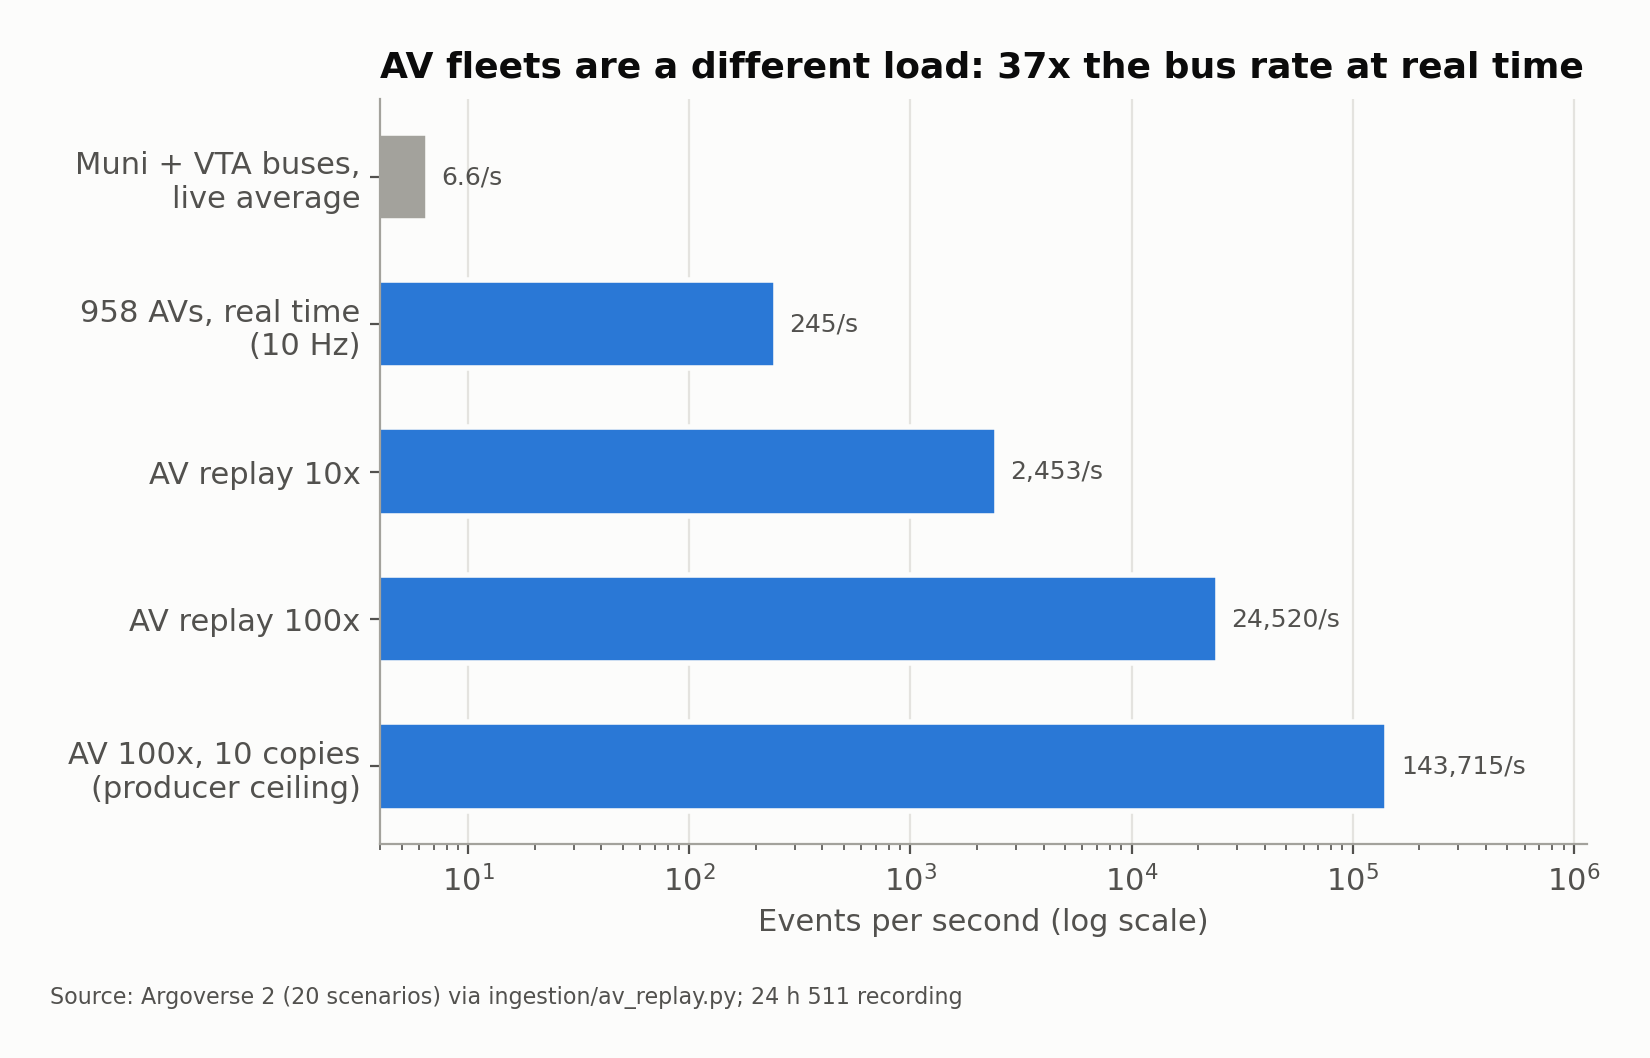
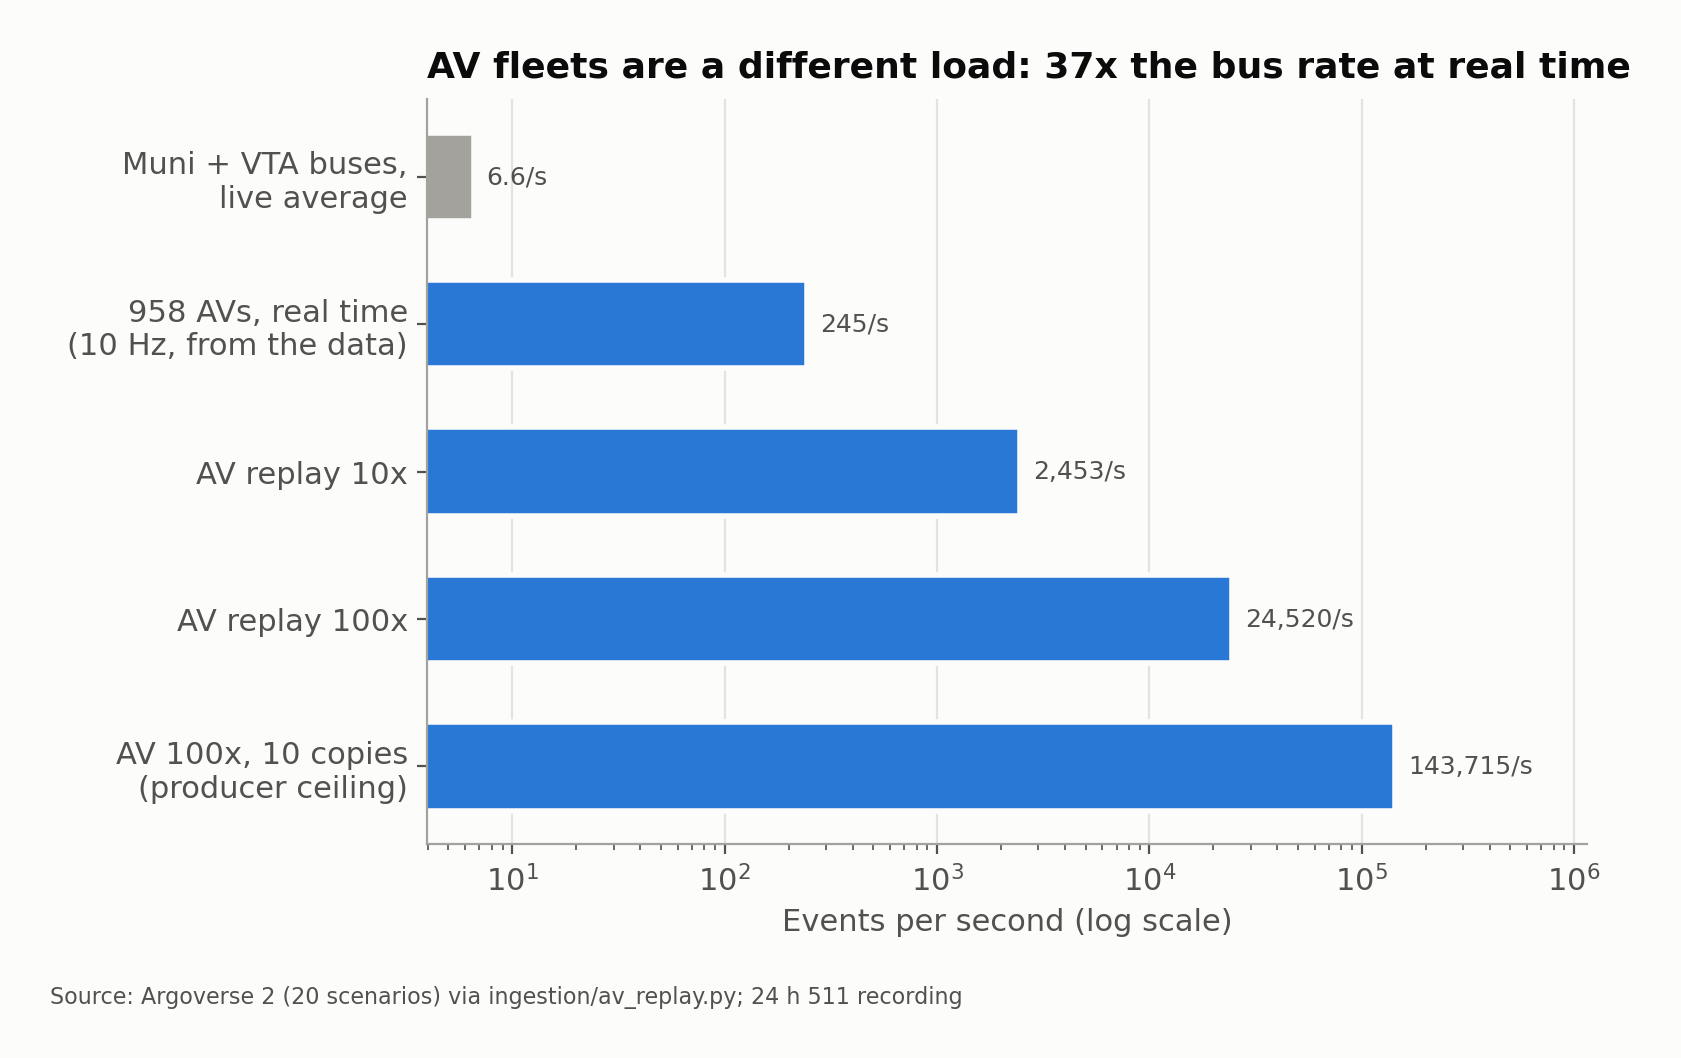
B28: review fixes (1M Bloom probes, measured exact-set memory, zoomed recall as points, 20 FM seeds, AV count from data, small fixes)

diff --git a/benchmarks/make_figures.py b/benchmarks/make_figures.py
@@ -10,7 +10,7 @@ Every other figure only reads saved results. A figure whose input is missing is
 skipped with a note, so this can be rerun as more results land.
 
 Run from the repo root:
-    python benchmarks/make_figures.py                 # everything (sweeps take ~2 min)
+    python benchmarks/make_figures.py                 # everything (sweeps take ~3-5 min)
     python benchmarks/make_figures.py --skip-sweeps   # only the saved results
 Writes report/figures/*.png and benchmarks/results/b28_sweeps.json (sweep numbers).
 """
@@ -31,6 +31,8 @@ sys.path.insert(0, os.path.dirname(os.path.dirname(os.path.abspath(__file__))))
 from algorithms.stream_algos import BloomFilter, FlajoletMartin  # noqa: E402
 
 RES = "benchmarks/results"
+COLD_JVM_RUN = "20261114_200826_r40000_t1_0"
+AV_PARQUET = "data/av2/av2_20_scenarios.parquet"
 OUT = "report/figures"
 
 # Validated reference palette (light mode); categorical slots in fixed order.
@@ -69,6 +71,11 @@ def save(fig, name, source):
     made.append(path)
 
 
+def load_json(path):
+    with open(path) as f:
+        return json.load(f)
+
+
 def latest(pattern):
     files = sorted(glob.glob(os.path.join(RES, pattern)))
     return files[-1] if files else None
@@ -96,7 +103,13 @@ def load_replay(folder, limit=None):
     return ids, vehicles
 
 
-def bloom_sweep(ids, probes=50_000):
+def exact_set_bytes(items):
+    """Measured memory of an exact Python set of the IDs: the set itself plus every string in it."""
+    st = set(items)
+    return sys.getsizeof(st) + sum(sys.getsizeof(x) for x in st)
+
+
+def bloom_sweep(ids, probes=1_000_000):
     distinct = list(dict.fromkeys(ids))
     n = len(distinct)
     fake = [f"probe:{i}:not-an-event" for i in range(probes)]
@@ -105,14 +118,19 @@ def bloom_sweep(ids, probes=50_000):
         bf = BloomFilter(n, p)
         for x in distinct:
             bf.add(x)
-        fp = sum(x in bf for x in fake) / probes
+        hits = sum(x in bf for x in fake)
+        fp = hits / probes
         rows.append({"target_fp": p, "memory_bytes": bf.memory_bytes(), "hashes_k": bf.k,
-                     "bits_per_item": round(bf.m / n, 2), "measured_fp": fp})
-        print(f"  Bloom target {p:.2%}: measured {fp:.3%}, {bf.memory_bytes() / 1e6:.2f} MB")
-    return {"distinct_ids": n, "exact_set_bytes_est": n * 120, "rows": rows}
+                     "bits_per_item": round(bf.m / n, 2), "measured_fp": fp,
+                     "false_positive_hits": hits, "expected_hits": round(p * probes)})
+        print(f"  Bloom target {p:.2%}: measured {fp:.4%} ({hits:,} of {probes:,} probes), "
+              f"{bf.memory_bytes() / 1e6:.2f} MB")
+    exact = exact_set_bytes(distinct)
+    print(f"  Exact Python set of the same IDs (measured): {exact / 1e6:.1f} MB")
+    return {"distinct_ids": n, "probes": probes, "exact_set_bytes_measured": exact, "rows": rows}
 
 
-def fm_sweep(vehicles, seeds=5):
+def fm_sweep(vehicles, seeds=20):
     rows = []
     for nh in (8, 16, 32, 64, 128):
         for src, vs in sorted(vehicles.items()):
@@ -123,7 +141,7 @@ def fm_sweep(vehicles, seeds=5):
                 for v in vs:
                     fm.add(v)
                 errs.append(abs(fm.estimate() - len(vs)) / len(vs) * 100)
-            rows.append({"source": src, "num_hashes": nh, "memory_bytes": nh * 8, "true": len(vs),
+            rows.append({"source": src, "num_hashes": nh, "memory_bytes": nh * 8, "true": len(vs), "seeds": seeds,
                          "mean_error_pct": round(sum(errs) / len(errs), 2),
                          "max_error_pct": round(max(errs), 2)})
             print(f"  FM {src} {nh:>3} hashes ({nh * 8} B): mean error {rows[-1]['mean_error_pct']}%")
@@ -134,17 +152,26 @@ def fig_bloom(sw):
     df = pd.DataFrame(sw["rows"])
     fig, ax = plt.subplots(figsize=(8, 4.8))
     ax.plot(df.memory_bytes / 1e6, df.measured_fp * 100, "-o", color=BLUE, label="measured")
+    if "false_positive_hits" in df:                      # too few hits to trust the rate: hollow marker
+        few = df[df.false_positive_hits < 20]
+        if len(few):
+            ax.scatter(few.memory_bytes / 1e6, few.measured_fp * 100, facecolor=SURFACE, edgecolor=BLUE,
+                       linewidth=2, s=60, zorder=4, label="fewer than 20 false-positive hits")
     ax.plot(df.memory_bytes / 1e6, df.target_fp * 100, "--", color=MUTED, linewidth=1.5, label="target")
     ax.set_xscale("log"); ax.set_yscale("log")
     for _, r in df.iterrows():
         ax.annotate(f"{r.bits_per_item:.0f} bits/ID", (r.memory_bytes / 1e6, r.measured_fp * 100),
                     textcoords="offset points", xytext=(6, 4), fontsize=8, color=INK2)
-    exact = sw["exact_set_bytes_est"] / 1e6
+    if "exact_set_bytes_measured" in sw:
+        exact, how = sw["exact_set_bytes_measured"] / 1e6, "measured"
+    else:                                                # older sweep file: 120 bytes per ID guess
+        exact, how = sw["exact_set_bytes_est"] / 1e6, "estimated"
     ax.axvline(exact, color=ORANGE, linewidth=1.5)
-    ax.text(exact, ax.get_ylim()[1], f" exact set ≈ {exact:.0f} MB\n (0% false positives)", va="top",
-            fontsize=9, color=INK2)
+    ax.text(exact, ax.get_ylim()[1], f" exact Python set\n {exact:.0f} MB ({how})\n 0% false positives",
+            va="top", fontsize=9, color=INK2)
     ax.set_xlabel("Memory (MB, log scale)"); ax.set_ylabel("False-positive rate (%, log scale)")
-    finish(ax, f"Bloom filter: accuracy vs memory ({sw['distinct_ids']:,} real event IDs, 24 h)")
+    probes = f", {sw['probes']:,} probes" if "probes" in sw else ""
+    finish(ax, f"Bloom filter: accuracy vs memory ({sw['distinct_ids']:,} real event IDs{probes})")
     save(fig, "b28_bloom_fp_vs_memory.png", "24 h recording, Nov 13-14; algorithms/stream_algos.py")
 
 
@@ -157,7 +184,8 @@ def fig_fm(rows):
     ax.set_xscale("log", base=2)
     ax.set_xticks(df.memory_bytes.unique()); ax.set_xticklabels([f"{b} B" for b in df.memory_bytes.unique()])
     ax.set_xlabel("Memory per agency (bytes; 8 per hash function)"); ax.set_ylabel("Mean error (%)")
-    finish(ax, "Flajolet-Martin: distinct-vehicle error vs memory (5 seeds)")
+    seeds = int(df["seeds"].iloc[0]) if "seeds" in df else 5
+    finish(ax, f"Flajolet-Martin: distinct-vehicle error vs memory (mean of {seeds} seeds)")
     save(fig, "b28_fm_error_vs_memory.png", "24 h recording; error = |estimate - true| / true")
 
 
@@ -187,7 +215,7 @@ def fig_bunching():
     path = os.path.join(RES, "bunching_replay_summary.json")
     if not need(path):
         return skipped.append("bunching (bunching_replay_summary.json)")
-    cats = json.load(open(path))["categories"]
+    cats = load_json(path)["categories"]
     order = [("layover", "both parked (layover)", False), ("one_parked", "one bus parked", False),
              ("no_history", "too little history", False), ("moving", "both moving", True),
              ("same_stop", "same stop", True), ("tandem", "tandem (<40 m for 5 min)", True)]
@@ -213,8 +241,8 @@ def fig_throughput():
     if not files:
         return skipped.append("B22 throughput (b22_runs_*.csv)")
     df = pd.concat([pd.read_csv(f).assign(file=os.path.basename(f)) for f in files])
-    # The 20:08 sweep had a cold JVM on its first run (benchmarks/README.md); its 40k / 1 s run was repeated at 20:13.
-    df = df[~((df.file.str.contains("2008")) & (df.rate_target == 40000) & (df.trigger_s == 1))]
+    # The 20:08 sweep's first run had a cold JVM (benchmarks/README.md); it was repeated at 20:13.
+    df = df[df.run_id != COLD_JVM_RUN]
     fig, ax = plt.subplots(figsize=(8, 4.8))
     for trig, color in ((1, BLUE), (5, ORANGE)):
         g = df[df.trigger_s == trig].sort_values("rate_target")
@@ -266,12 +294,17 @@ def fig_windows():
     panels = [(axes[0], idem.late_drop_pct, "Late reports dropped (%)"),
               (axes[1], idem.alert_delay_s_median, "Median alert delay (s)"),
               (axes[2], idem.recall_exact * 100, "Recall vs exact scan (%)")]
-    for ax, vals, title in panels:
+    for ax, vals, title in panels[:2]:
         ax.bar(mins, vals, color=BLUE, width=0.55, edgecolor=SURFACE, linewidth=2)
         for i, v in enumerate(vals):
             ax.text(i, v, f"{v:.1f}" if v < 100 else f"{v:.0f}", ha="center", va="bottom", fontsize=9, color=INK2)
         ax.set_title(title, fontsize=11); ax.grid(axis="x", visible=False)
-    axes[2].set_ylim(90, 100)
+    ax, vals, title = panels[2]                     # recall: points, because the axis is zoomed
+    ax.plot(list(mins), list(vals), "-o", color=BLUE)
+    for i, v in enumerate(vals):
+        ax.text(i, v + 0.15, f"{v:.1f}", ha="center", va="bottom", fontsize=9, color=INK2)
+    ax.set_ylim(96, 100); ax.set_title(title + "\naxis zoomed to 96-100%", fontsize=11)
+    ax.margins(x=0.25); ax.grid(axis="x", visible=False)
     dup = ", ".join(f"{int(w // 60)} min: {d}" for w, d in zip(app.window_s, app.duplicate_alert_rows))
     fig.suptitle("Window size trade-off (bunching detector, crash mid-run)", x=0.01, ha="left",
                  fontweight="bold", fontsize=13)
@@ -285,12 +318,20 @@ def fig_av():
     algo = os.path.join(RES, "stream_algorithms_24h.json")
     if not need(*reports.values(), algo):
         return skipped.append("AV vs transit (av_replay_*.json)")
-    transit = json.load(open(algo))["events"] / 86_400
+    transit = load_json(algo)["events"] / 86_400
+    if os.path.exists(AV_PARQUET):                   # real-time rate = readings / span of the replay
+        av = pd.read_parquet(AV_PARQUET, columns=["scenario_id", "track_id", "t_sec"])
+        n_av = av.groupby(["scenario_id", "track_id"]).ngroups
+        realtime, rt_note = len(av) / (av.t_sec.max() - av.t_sec.min()), "from the data"
+    else:                                            # fallback: 10x run / 10 (assumes it was not throttled)
+        n_av, realtime = None, load_json(reports["speed10"])["events_per_sec"] / 10
+        rt_note = "10x rate / 10"
+    av_label = f"{n_av:,} AVs" if n_av else "AV fleet"
     rates = [("Muni + VTA buses,\nlive average", transit, MUTED),
-             ("958 AVs, real time\n(10 Hz)", json.load(open(reports["speed10"]))["events_per_sec"] / 10, BLUE),
-             ("AV replay 10x", json.load(open(reports["speed10"]))["events_per_sec"], BLUE),
-             ("AV replay 100x", json.load(open(reports["speed100"]))["events_per_sec"], BLUE),
-             ("AV 100x, 10 copies\n(producer ceiling)", json.load(open(reports["speed100_x10"]))["events_per_sec"], BLUE)]
+             (f"{av_label}, real time\n(10 Hz, {rt_note})", realtime, BLUE),
+             ("AV replay 10x", load_json(reports["speed10"])["events_per_sec"], BLUE),
+             ("AV replay 100x", load_json(reports["speed100"])["events_per_sec"], BLUE),
+             ("AV 100x, 10 copies\n(producer ceiling)", load_json(reports["speed100_x10"])["events_per_sec"], BLUE)]
     fig, ax = plt.subplots(figsize=(8, 4.8))
     labels = [r[0] for r in rates][::-1]
     vals = [r[1] for r in rates][::-1]
@@ -322,7 +363,7 @@ def fig_delay():
     finish(ax, "BART: share of late arrivals by hour (one day, Nov 13-14)")
     prop = os.path.join(RES, "delay_propagation.json")
     if os.path.exists(prop):
-        a = json.load(open(prop))["across_trips"]
+        a = load_json(prop)["across_trips"]
         ax.text(0.99, 0.97, f"After a late train, the next is late {a['late_after_late_share']:.0%}\n"
                 f"vs {a['baseline_late_share']:.0%} overall ({a['lift']}x lift)", transform=ax.transAxes,
                 ha="right", va="top", fontsize=9, color=INK2, zorder=5,
@@ -339,8 +380,8 @@ def fig_fairness():
     fig, ax = plt.subplots(figsize=(8.5, 4.8))
     ax.bar(df.index, df.no_history * 100, color=[AGENCY.get(s, AQUA) for s in df.source], width=0.8,
            edgecolor=SURFACE, linewidth=1)
-    worst = ", ".join(f"{AGENCY_NAME[r.source].split()[0]} {r.route_id} {r.no_history:.0%}" for r in df.head(3).itertuples())
-    best = ", ".join(f"{AGENCY_NAME[r.source].split()[0]} {r.route_id} {r.no_history:.0%}" for r in df.tail(2).itertuples())
+    worst = ", ".join(f"{AGENCY_NAME.get(r.source, r.source).split()[0]} {r.route_id} {r.no_history:.0%}" for r in df.head(3).itertuples())
+    best = ", ".join(f"{AGENCY_NAME.get(r.source, r.source).split()[0]} {r.route_id} {r.no_history:.0%}" for r in df.tail(2).itertuples())
     ax.text(0.99, 0.97, f"Least reliable: {worst}\nMost reliable: {best}", transform=ax.transAxes,
             ha="right", va="top", fontsize=8.5, color=INK2, zorder=5,
             bbox=dict(facecolor=SURFACE, edgecolor="none", pad=3))
@@ -363,18 +404,21 @@ def main():
     p.add_argument("--replay", default="data/replay_in")
     p.add_argument("--out", default=OUT)
     p.add_argument("--skip-sweeps", action="store_true")
+    p.add_argument("--probes", type=int, default=1_000_000, help="Bloom false-positive probes per size")
+    p.add_argument("--fm-seeds", type=int, default=20, help="Flajolet-Martin runs per point")
     args = p.parse_args()
     RES, OUT = args.results, args.out
     os.makedirs(OUT, exist_ok=True)
 
     sweeps_path = os.path.join(RES, "b28_sweeps.json")
-    sweeps = json.load(open(sweeps_path)) if os.path.exists(sweeps_path) else None
+    sweeps = load_json(sweeps_path) if os.path.exists(sweeps_path) else None
     if not args.skip_sweeps and glob.glob(os.path.join(args.replay, "*.json")):
         print("Sweeps on the 24 h replay:")
         ids, vehicles = load_replay(args.replay)
-        sweeps = {"bloom": bloom_sweep(ids), "fm": fm_sweep(vehicles)}
+        sweeps = {"bloom": bloom_sweep(ids, args.probes), "fm": fm_sweep(vehicles, args.fm_seeds)}
         with open(sweeps_path, "w") as f:
             json.dump(sweeps, f, indent=2)
+            f.write("\n")
     if sweeps:
         fig_bloom(sweeps["bloom"])
         fig_fm(sweeps["fm"])
